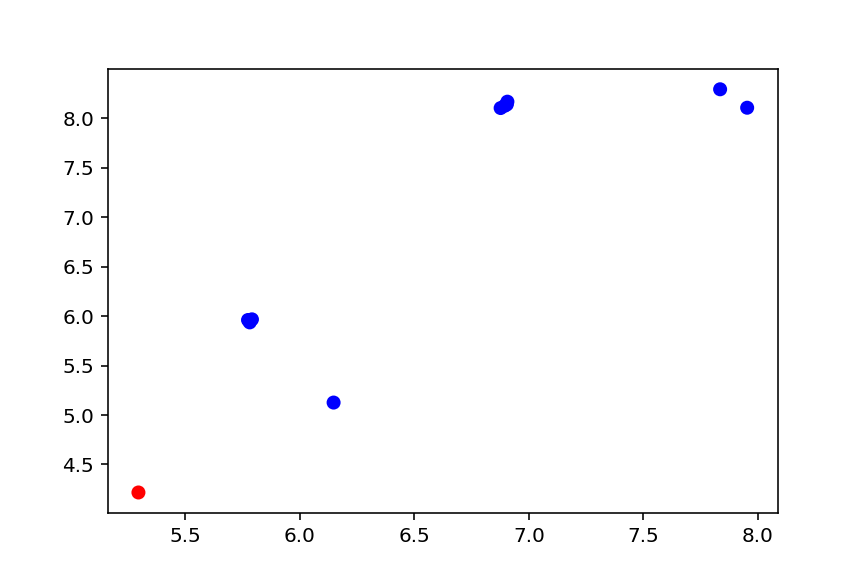
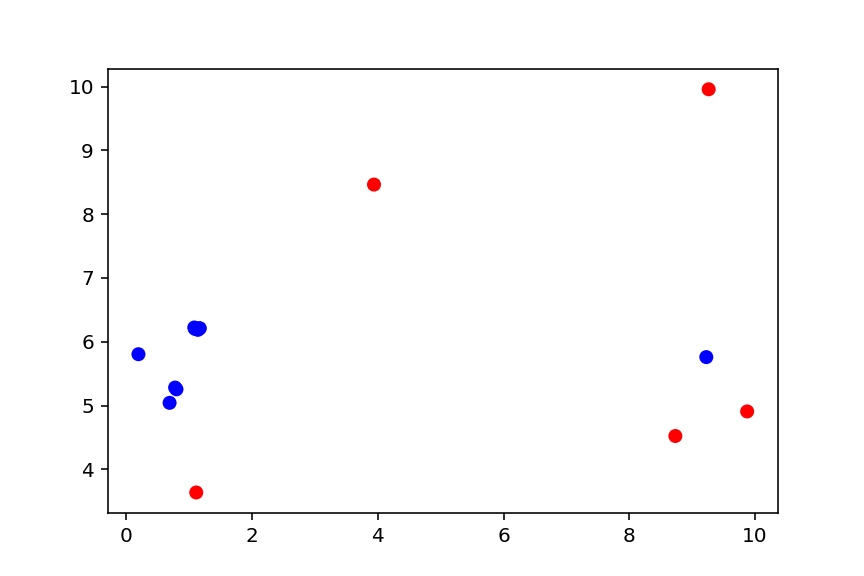
added smoothening factor to random walk

diff --git a/Initialization_functions.py b/Initialization_functions.py
@@ -52,10 +52,21 @@ def validate_bite_r_Z_H(bite_r_Z_H):
             )
     return
 
+def validate_smooth_rand_walk(smooth_rand_walk):
+    '''
+    Validated the param for smooth_rand_walk
+    Expects a float or int between 0.0 - 1.0
+    '''
+    if not (0.0 <= smooth_rand_walk <= 1.0):
+        raise TypeError(
+            f'smooth_rand_walk must be a between 0.0 - 1.0, got {smooth_rand_walk}'
+        )
+    return
+
 
 def create_parameter_dict(n_H, n_Z, timestep, n_steps, x_bounds, y_bounds, root_cell = None, 
                           awareness_r_H = None, awareness_r_Z = None, max_speed_H = None, max_speed_Z = None, 
-                          walking_speed_Z = None, H_contr_flocking = None, max_ents_cell = None, bite_r_Z_H = None):
+                          walking_speed_Z = None, H_contr_flocking = None, max_ents_cell = None, bite_r_Z_H = None, smooth_rand_walk = None):
     """
     function that creates the parameter dictionary
 
@@ -113,6 +124,12 @@ def create_parameter_dict(n_H, n_Z, timestep, n_steps, x_bounds, y_bounds, root_
             Bite Radius, for distance Zombie to Human, for which the Zombie can bite the Human.
             If None is given, default value will be used.
         
+        smooth_rand_walk (float/int):
+            Between 0 - 1 (straight line - random walk), smooth_rand_walk * pi (half a circle) 
+            gives a spectrum in radans an entity can randomly deviated into in the direction 
+            of its velocity to the left and to the right hemisphere.
+            
+        
 
     Returns:
         A dictionary containing all the above values
@@ -126,6 +143,7 @@ def create_parameter_dict(n_H, n_Z, timestep, n_steps, x_bounds, y_bounds, root_
     H_contr_flocking = 4 if H_contr_flocking == None else H_contr_flocking
     max_ents_cell = 6 if max_ents_cell == None else max_ents_cell
     bite_r_Z_H = 0.0002 if bite_r_Z_H == None else bite_r_Z_H
+    smooth_rand_walk = 0.2 if smooth_rand_walk == None else smooth_rand_walk
 
     # validate correct types were given
     if not isinstance(n_H, int): raise(TypeError)
@@ -143,6 +161,7 @@ def create_parameter_dict(n_H, n_Z, timestep, n_steps, x_bounds, y_bounds, root_
     if not isinstance(H_contr_flocking, int): raise(TypeError)
     if not isinstance(max_ents_cell, int): raise(TypeError)
     validate_bite_r_Z_H(bite_r_Z_H)
+    validate_smooth_rand_walk(smooth_rand_walk)
 
     return {"n_H": n_H,                          
             "n_Z": n_Z,
@@ -157,7 +176,8 @@ def create_parameter_dict(n_H, n_Z, timestep, n_steps, x_bounds, y_bounds, root_
             "walking_speed_Z": walking_speed_Z,
             "H_contr_flocking": H_contr_flocking,
             "max_ents_cell": max_ents_cell,
-            "bite_r_Z_H": bite_r_Z_H}
+            "bite_r_Z_H": bite_r_Z_H,
+            "smooth_rand_walk": smooth_rand_walk}
 
 
 def Initialize_entities(param_dict):

diff --git a/entity_class.py b/entity_class.py
@@ -405,27 +405,29 @@ class entity:
         
         return
     
-    def random_walk(self, param_dict):
-        """
-        Adjusts the zombie's velocity with a random walk.
-    
-        Args:
-           None
-    
-        Returns:
-            None: Updates self.velocity directly.
-        """
 
-        ##INFO
-        #redirect the velocity direction according to the random walk without
-        #changing the speed of the vector
+    def random_walk(self,param_dict):
         
+        #get the direction from last round
+        old_direction = self.get_direction()
         
-        #choose a random angle (radians) in a full circle
-        theta = rng.uniform(0, np.pi * 2)
+        #have to do this because inital velocity not init. init here!!!!!!!
+        if np.isnan(old_direction).any(): 
+            theta = rng.uniform(0, np.pi * 2)
+            old_direction = np.array([np.cos(theta), np.sin(theta)])
         
-        #new_direction has to be a unit vector
-        new_direction = np.array([np.cos(theta), np.sin(theta)])
+        #get the angle to of this direction, to x achis?
+        old_phi = math.atan2(old_direction[1], old_direction[0])
+        
+        #get the random angle
+        smoothing_param = param_dict["smooth_rand_walk"] #this has to be between 0-1, zero means he will follow a straight line
+        
+        smooth_phi = rng.uniform(-np.pi * smoothing_param, np.pi * smoothing_param)
+        
+        new_phi = old_phi + smooth_phi
+        
+        #get new direction which is depend on last direction +"slightly different angle
+        new_direction = np.array([np.cos(new_phi), np.sin(new_phi)])
         
         #get the walking speed
         walking_speed_Z = param_dict["walking_speed_Z"]
@@ -437,6 +439,7 @@ class entity:
         self.change_velocity(new_velocity)
         
         return 
+
     
     def human_awareness_walk(self, entities):
         """

diff --git a/run.py b/run.py
@@ -8,7 +8,7 @@ from anim_func import *
 xbounds = (0.0,10.0)
 ybounds = (0.,10.)
 
-param_dict = create_parameter_dict(n_H=10, n_Z=1,timestep=.08, n_steps=100, bite_r_Z_H = 0.002, 
+param_dict = create_parameter_dict(n_H=10, n_Z=5,timestep=.08, n_steps=100, bite_r_Z_H = 0.002, 
                                    x_bounds=np.array(xbounds), y_bounds=np.array(ybounds))
 
 entities = Initialize_entities(param_dict)
